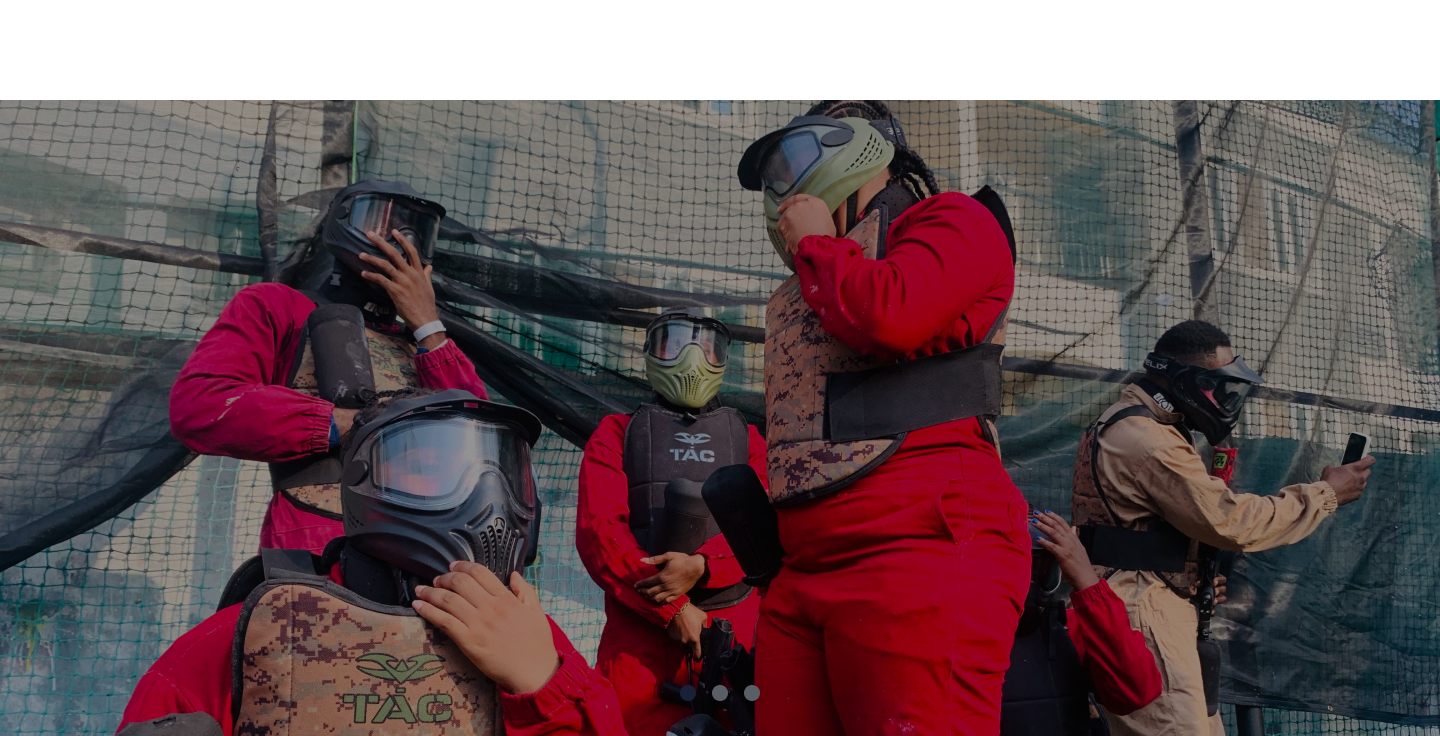
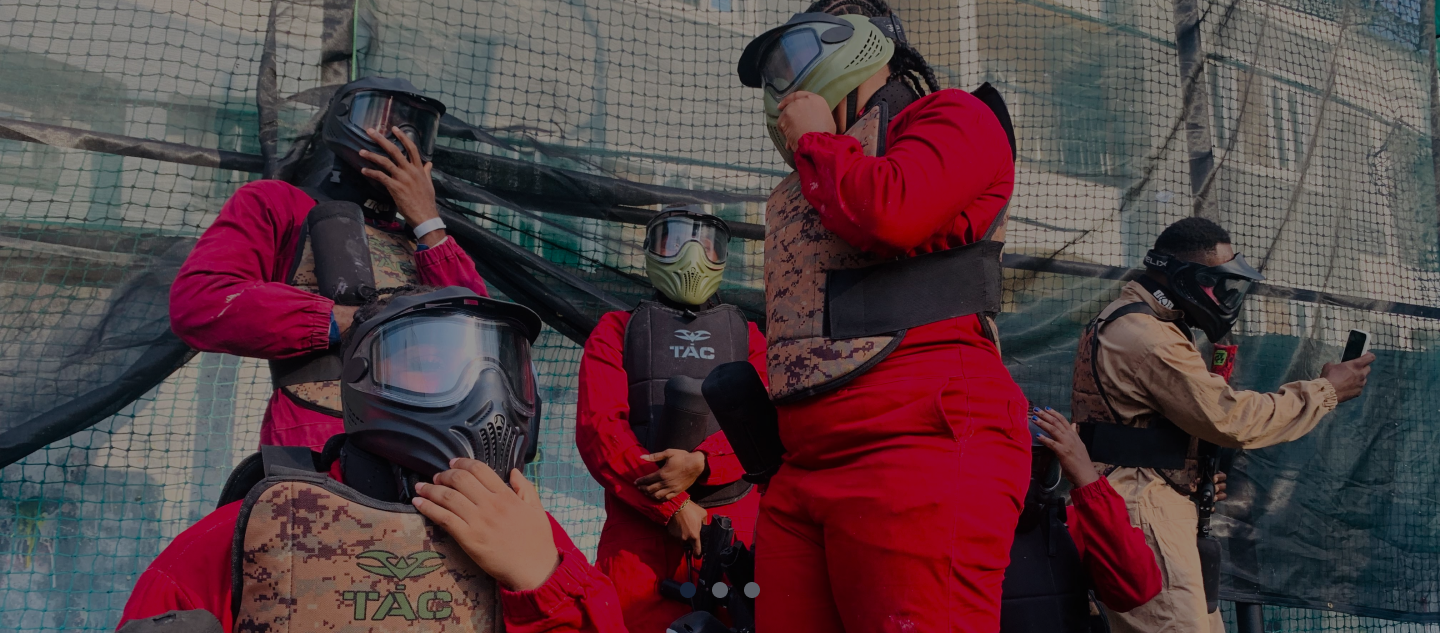
responsive completed

diff --git a/src/Components/ImgCardSection.jsx b/src/Components/ImgCardSection.jsx
@@ -1,0 +1,41 @@
+import React from 'react'
+
+function ImgCardSection() {
+    const cards = [
+        {
+            imgSrc: "/imgcard1.png",
+            title: "Eat & Drink"
+        },
+        {
+            imgSrc: "/imgcard2.png",
+            title: "Events"
+        },   {
+            imgSrc: "/imgcard3.png",
+            title: "Club"
+        },   {
+            imgSrc: "/imgcard4.png",
+            title: "Things to do"
+        }
+    ]
+  return (
+    <section>
+      <h1 className='text-center text-[#26395C] text-2xl sm:text-3xl lg:text-5xl font-bold mt-10 mb-10'>What are you in the mood for?</h1>
+    <div className="grid grid-cols-1 sm:grid-cols-2 lg:grid-cols-4 mt-5 mb-10 container mx-auto p-4">
+        {
+            cards.map((card, index)=> (
+                <div key= {index} className='flex flex-col items-center overflow-hidden'>
+                    <img className='w-full h-[450px] lg:h-[500px]' src={card.imgSrc} alt="" />
+                    <div>
+                        <h2 className='text-2xl sm:text-3xl mt-4 mb-10 text-[#26395C] font-bold'>{card.title}</h2>
+                    </div>
+
+                </div>
+            ))
+        }
+    </div>
+    
+    </section>
+  )
+}
+
+export default ImgCardSection

diff --git a/src/Components/HeroArea.jsx b/src/Components/HeroArea.jsx
@@ -3,9 +3,10 @@ import { Autocomplete, AutocompleteItem, Button } from "@nextui-org/react";
 
 const HeroArea = () => {
   return (
-    <section className="bg-[url('/hero.png')] w-full bg-no-repeat bg-cover h-[100vh] overflow-hidden mx-auto -mt-20">
+    <section className="bg-[url('/hero.png')] w-full bg-no-repeat bg-cover h-[140vh] mx-auto -mt-44 mb-10">
+      
       <div className="container w-[80%] mt-10 mx-auto">
-        <h1 className="text-2xl text-center lg:text-start w-full lg:text-5xl lg:w-[65%] font-bold py-10 px-10 mt-[60px] text-white leading-tight">
+        <h1 className="text-2xl text-center lg:text-start w-full lg:text-5xl lg:w-[65%] font-bold py-10 px-10 mt-24 text-white leading-tight">
           Find amazing things to do anytime, anywhere in Lagos.
         </h1>
 

diff --git a/src/App.jsx b/src/App.jsx
@@ -1,6 +1,7 @@
 
 import './App.css'
 import HeroArea from './Components/HeroArea'
+import ImgCardSection from './Components/ImgCardSection'
 import Navbar from './Components/Navbar'
 
 function App() {
@@ -9,6 +10,7 @@ function App() {
     <>
   <Navbar/>
   <HeroArea/>
+  <ImgCardSection/>
     </>
   )
 }

diff --git a/src/Components/Navbar.jsx b/src/Components/Navbar.jsx
@@ -34,7 +34,7 @@ function MyNavbar() {
     "Contact",
   ];
   return (
-    <section>
+    <section className="mb-48 py-3">
       <Navbar
         isMenuOpen={isMenuOpen}
         onMenuOpenChange={setIsMenuOpen}
